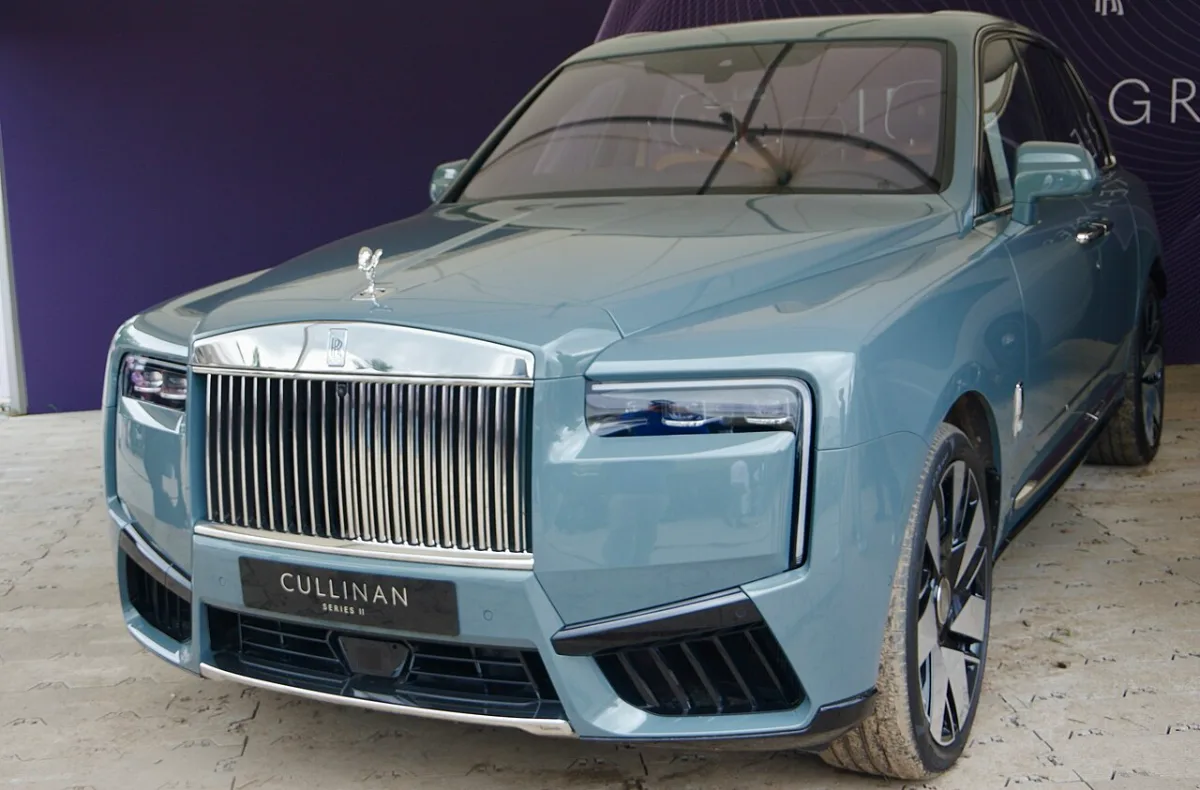
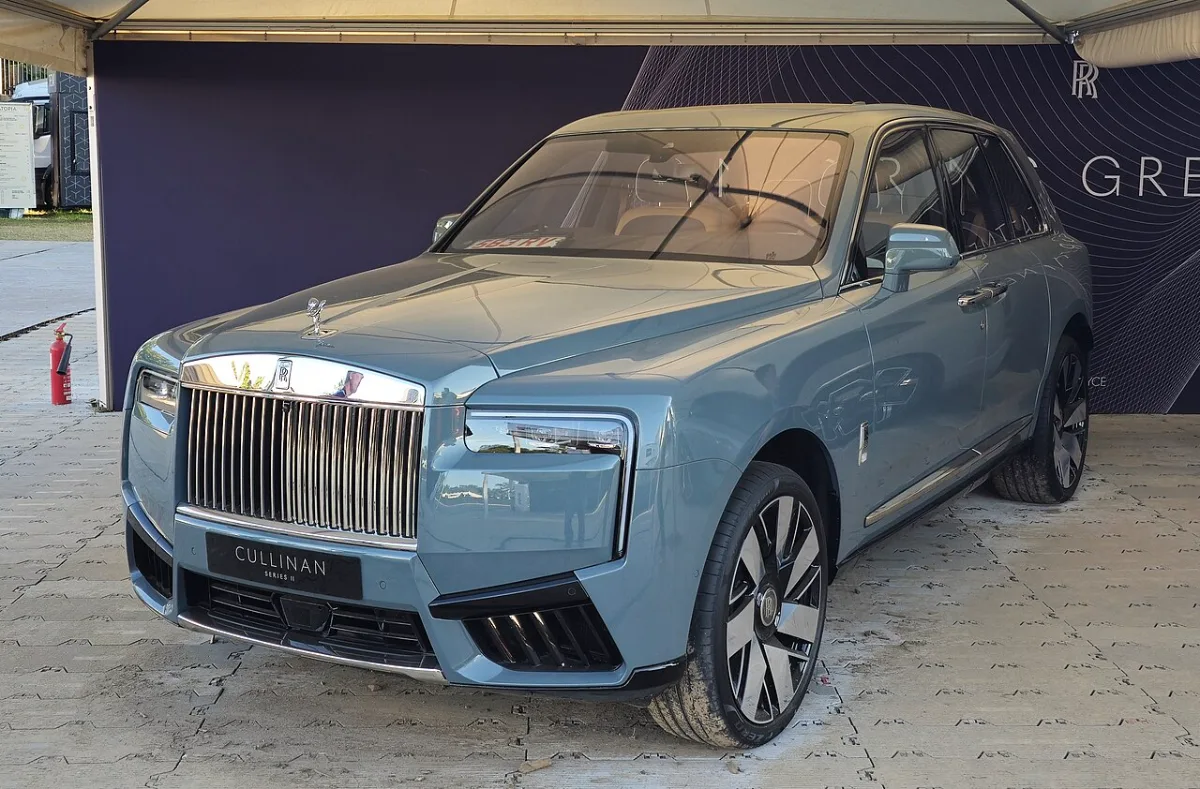
사이클 7: VR2 와 컬리넌 사진을 다음 후보로, 홈 카드 글 세 덩이 간격
- VR2: 헤드셋과 컨트롤러가 다 보이는 후보. 컬리넌: 배경 잔여 없는 후보. 둘 다 스튜디오 재변환
- 홈 카드 글: 이름과 가격 / 대표 상품 셋 / 확률 요약 사이 10px, 덩이 안은 2px

diff --git a/web/app/ui.css b/web/app/ui.css
@@ -135,7 +135,8 @@ input[type="number"]::-webkit-outer-spin-button, input[type="number"]::-webkit-i
 .v-boxcard-photo { position: relative; display: block; aspect-ratio: 1; background: var(--v-photo); }
 .v-boxcard-photo img { position: absolute; inset: 0; width: 100%; height: 100%; object-fit: cover; }
 .v-boxcard-body { display: flex; min-width: 0; flex-direction: column; justify-content: center; gap: 2px; padding: 12px 16px; }
-.v-boxcard-meta { display: flex; flex-wrap: wrap; column-gap: 12px; color: var(--v-mute); font-size: var(--v-fs-small); }
+.v-boxcard-meta { display: flex; flex-wrap: wrap; column-gap: 12px; row-gap: 2px; color: var(--v-mute); font-size: var(--v-fs-small); }
+.v-boxcard-meta + .v-boxcard-meta { margin-top: 2px; }
 /* 실물 사진 셋이 있는 카드: 사진 세 장이 위에 가로로, 글은 아래 */
 .v-boxcard--photos { display: block; }
 .v-boxcard-photos { display: grid; grid-template-columns: repeat(3, minmax(0, 1fr)); gap: 2px; }
@@ -145,7 +146,7 @@ input[type="number"]::-webkit-outer-spin-button, input[type="number"]::-webkit-i
 .v-boxcard-photos[data-n="2"] { grid-template-columns: repeat(2, minmax(0, 1fr)); }
 @media (min-width: 768px) { .v-boxcard-photos .v-boxcard-photo { aspect-ratio: 4 / 3; } }
 /* 대표 실물 셋: 한 줄에 하나, 길면 줄임표 */
-.v-boxcard-leads { display: flex; flex-direction: column; gap: 1px; margin: 4px 0 6px; color: var(--v-text); font-size: var(--v-fs-small); line-height: 1.4; }
+.v-boxcard-leads { display: flex; flex-direction: column; gap: 1px; margin: 10px 0; color: var(--v-text); font-size: var(--v-fs-small); line-height: 1.4; }
 .v-boxcard-leads > span { overflow: hidden; white-space: nowrap; text-overflow: ellipsis; }
 @media (min-width: 640px) {
   .v-boxgrid { grid-template-columns: repeat(2, minmax(0, 1fr)); gap: 16px; }

diff --git a/web/public/assets/photography/ATTRIBUTION-commons.md b/web/public/assets/photography/ATTRIBUTION-commons.md
@@ -42,127 +42,8 @@ More of my work can be found in my personal gallery or at my Peertube channel.
 
 
 A prepared attribution especially for use in Social Media and Print (newspapers, flyers, books, murals, mousepads, mugs, posters, t-shirts) can be copied here | CC BY-SA 4.0 |
-| commons-ap-vision-pro.webp | ap-vision-pro | https://commons.wikimedia.org/wiki/File:AR-_Apple_Vision_Pro_(2023).png | Steve Zhang | CC BY-SA 4.0 |
-| commons-ap-mba-15.webp | ap-mba-15 | https://commons.wikimedia.org/wiki/File:MacBook_Air_(15-inch,_M4,_Silver).jpg | AzureSaturn | CC0 |
-| commons-da-iphone16.webp | da-iphone16 | https://commons.wikimedia.org/wiki/File:Back_view_of_iPhone_16_Pro_Max_Natural_Titanium.jpg | メイド理世 | CC BY-SA 4.0 |
-| commons-ap-mba-13.webp | ap-mba-13 | https://commons.wikimedia.org/wiki/File:MacBook_Air_(13-inch,_M4,_Silver).jpg | AzureSaturn | CC0 |
-| commons-ap-watch-ultra-2.webp | ap-watch-ultra-2 | https://commons.wikimedia.org/wiki/File:Apple_Watch_Ultra_-_3.jpg | KKPCW（Kyu3） | CC BY-SA 4.0 |
-| commons-ap-mac-mini.webp | ap-mac-mini | https://commons.wikimedia.org/wiki/File:Mac_mini_2024_(cropped).jpg | Seasider53 | CC BY 4.0 |
-| commons-ap-ipad-mini.webp | ap-ipad-mini | https://commons.wikimedia.org/wiki/File:IPad_mini_(A17_Pro)_backside.jpg | 茅野ふたば | CC BY-SA 4.0 |
-| commons-ap-magic-keyboard-ipad.webp | ap-magic-keyboard-ipad | https://commons.wikimedia.org/wiki/File:Apple_Keyboards_2nd_3rd_Gen_right.png | Filterkaffee | CC BY-SA 4.0 |
-| commons-ap-homepod.webp | ap-homepod | https://commons.wikimedia.org/wiki/File:HomePod_2_2018-02-23.jpg | FASTILY | CC BY-SA 4.0 |
-| commons-da-watchse.webp | da-watchse | https://commons.wikimedia.org/wiki/File:Apple_Headquarters_in_Cupertino.jpg | Joe Ravi (Shutterstock iStock Dreamstime) | CC BY-SA 3.0 |
-| commons-ap-airpods-pro-2.webp | ap-airpods-pro-2 | https://commons.wikimedia.org/wiki/File:AirPods_Pro_case.jpg | — aconcagua (talk) | CC BY-SA 4.0 |
-| commons-ap-beats-fit-pro.webp | ap-beats-fit-pro | https://commons.wikimedia.org/wiki/File:Beats_Fit_Pro_-_1.jpg | Kyu3a | CC BY-SA 4.0 |
-| commons-ap-airpods-4-anc.webp | ap-airpods-4-anc | https://commons.wikimedia.org/wiki/File:AirPods_4_ANC_and_case.jpg | SimplyPops | CC0 |
-| commons-ap-apple-tv.webp | ap-apple-tv | https://commons.wikimedia.org/wiki/File:Apple_TV_4K_4gen_64gb.jpg | Davidbspalding | CC BY-SA 4.0 |
-| commons-ap-magic-keyboard.webp | ap-magic-keyboard | https://commons.wikimedia.org/wiki/File:Apple_Magic_Keyboard_with_Numeric_Keypad_Traditional_Chinese_(Zhuyin_%26_Cangjie).jpg | Shujenchang | CC BY-SA 4.0 |
-| commons-ap-apple-pencil-pro.webp | ap-apple-pencil-pro | https://commons.wikimedia.org/wiki/File:IPad_Pro_and_Apple_Pencil_(boxed).jpg | Brett Jordan | CC BY 2.0 |
-| commons-ap-magic-mouse.webp | ap-magic-mouse | https://commons.wikimedia.org/wiki/File:Magic_Mouse_vs_Mighty_Mouse.jpg | Julian Berry | CC BY-SA 2.0 |
-| commons-ap-homepod-mini.webp | ap-homepod-mini | https://commons.wikimedia.org/wiki/File:HomePod_mini.jpeg | — aconcagua (talk) | CC BY-SA 4.0 |
-| commons-ap-beats-solo-buds.webp | ap-beats-solo-buds | https://commons.wikimedia.org/wiki/File:Beats_Solo_Buds_Red_model_-_1.jpg | Kyu3a | CC BY-SA 4.0 |
-| commons-ap-watch-band.webp | ap-watch-band | https://commons.wikimedia.org/wiki/File:Apple_Watch_Sport_-_38mm_Space_Gray_(3768).jpg | Gregory Varnum | CC BY-SA 4.0 |
-| commons-car-rr-spectre.webp | car-rr-spectre | https://commons.wikimedia.org/wiki/File:Rolls-Royce_Spectre_IMG01.jpg | Maxhdtenda | CC BY-SA 4.0 |
-| commons-car-rr-cullinan.webp | car-rr-cullinan | https://commons.wikimedia.org/wiki/File:Rolls_Royce_Cullinan_Series_II_(53878104614).jpg | David Merrett from Daventry, England | CC BY 2.0 |
-| commons-car-rr-ghost.webp | car-rr-ghost | https://commons.wikimedia.org/wiki/File:Rolls_Royce_Ghost_Series_II_,_GIMS_2014_(Ank_Kumar)_01.jpg | Ank Kumar | CC BY-SA 4.0 |
-| commons-car-bentley-gt.webp | car-bentley-gt | https://commons.wikimedia.org/wiki/File:Bentley_Continental_GT_Speed.JPG | Hatsukari715 | Public domain |
-| commons-car-bentley-spur.webp | car-bentley-spur | https://commons.wikimedia.org/wiki/File:Bentley_Continental_Flying_Spur_Speed_%E2%80%93_Frontansicht_(2),_5._April_2012,_D%C3%BCsseldorf.jpg | M 93 | CC BY-SA 3.0 de |
-| commons-car-bentley-bentayga.webp | car-bentley-bentayga | https://commons.wikimedia.org/wiki/File:2022_Bentley_Bentayga_EWB_Azure.jpg | MrWalkr | CC BY-SA 4.0 |
-| commons-car-maybach-s680.webp | car-maybach-s680 | https://commons.wikimedia.org/wiki/File:Czeladz_Mercedes_Maybach_S680_2.jpg | Andrzej Otrębski | CC BY-SA 4.0 |
-| commons-car-rangerover-sv.webp | car-rangerover-sv | https://commons.wikimedia.org/wiki/File:Geneva_International_Motor_Show_2018,_Le_Grand-Saconnex_(1X7A1205).jpg | Matti Blume | CC BY-SA 4.0 |
-| commons-car-g63.webp | car-g63 | https://commons.wikimedia.org/wiki/File:Mercedes_Benz_G63_AMG_Long_front.JPG | Tokumeigakarinoaoshima | CC0 |
-| commons-car-cayenne.webp | car-cayenne | https://commons.wikimedia.org/wiki/File:Porsche_Cayenne_Coup%C3%A9_Turbo_S_E-Hybrid_at_IAA_2019_IMG_0256.jpg | Alexander Migl | CC BY-SA 4.0 |
-| commons-car-audi-etron-gt.webp | car-audi-etron-gt | https://commons.wikimedia.org/wiki/File:Audi_RS_e-tron_GT_quattro_(rear_view).jpg | Nimda01 | CC BY-SA 4.0 |
-| commons-car-bmw-i7.webp | car-bmw-i7 | https://commons.wikimedia.org/wiki/File:BMW_i7_xDrive60_1X7A6834.jpg | Alexander-93 | CC BY-SA 4.0 |
-| commons-car-lexus-lx.webp | car-lexus-lx | https://commons.wikimedia.org/wiki/File:Lexus_LX_600_F_Sport_2022_(1).jpg | Ethan Llamas | CC BY-SA 4.0 |
-| commons-car-lucid-air.webp | car-lucid-air | https://commons.wikimedia.org/wiki/File:Lucid_Air_Grand_Touring_-_front.jpg | Ganbaruby | CC BY-SA 4.0 |
-| commons-car-tesla-x.webp | car-tesla-x | https://commons.wikimedia.org/wiki/File:Tesla_Model_X_100D_1X7A6736.jpg | Alexander Migl | CC BY-SA 4.0 |
-| commons-car-tesla-s.webp | car-tesla-s | https://commons.wikimedia.org/wiki/File:20180630_Tesla_Model_S_70D_2015_midnight_blue_left_front.jpg | Granada | CC BY-SA 4.0 |
-| commons-car-bmw-x7.webp | car-bmw-x7 | https://commons.wikimedia.org/wiki/File:BMW_Concept_X7_iPerformance,_IAA_2017,_Frankfurt_(1Y7A3280).jpg | Matti Blume | CC BY-SA 4.0 |
-| commons-car-macan-ev.webp | car-macan-ev | https://commons.wikimedia.org/wiki/File:Porsche_Macan_(XAB)_IMG_2421.jpg | Alexander-93 | CC BY-SA 4.0 |
-| commons-car-cybertruck.webp | car-cybertruck | https://commons.wikimedia.org/wiki/File:2024_Tesla_Cybertruck,_Moab_02.jpg | A1C6 | CC0 |
-| commons-car-genesis-gv80.webp | car-genesis-gv80 | https://commons.wikimedia.org/wiki/File:Genesis_GV80_Coupe_002.jpg | JustAnotherCarDesigner | CC0 |
-| commons-car-tesla-y.webp | car-tesla-y | https://commons.wikimedia.org/wiki/File:2022_Tesla_Model_Y_Long_Range_AWD.jpg | Calreyn88 | CC BY-SA 4.0 |
-| commons-car-ducati-v4.webp | car-ducati-v4 | https://commons.wikimedia.org/wiki/File:Ducati_Panigale_V4_-_Tuning_World_Bodensee_2018,_Friedrichshafen_(OW1A0484).jpg | Matti Blume | CC BY-SA 4.0 |
-| commons-car-goldwing.webp | car-goldwing | https://commons.wikimedia.org/wiki/File:Honda_Gold_Wing_Trike_-_Flickr_-_mick_-_Lumix.jpg | Mick from Northamptonshire, England | CC BY 2.0 |
-| commons-car-harley-rg.webp | car-harley-rg | https://commons.wikimedia.org/wiki/File:2019_Harley-Davidson_CVO_Road_Glide_in_Red_Pepper_%26_Magnetic_Grey_With_Black_Hole.jpg | User:Lightburst | CC BY-SA 4.0 |
-| commons-car-zero-srf.webp | car-zero-srf | https://commons.wikimedia.org/wiki/File:Seulberger_Mark,_Dreim%C3%A4rker_GI_OE_42,_HH_SR_P_46._HH_F,_Petterweiler_Seite.jpg | Karsten Ratzke | CC0 |
-| commons-car-bmw-gs.webp | car-bmw-gs | https://commons.wikimedia.org/wiki/File:BMW_R1300_GS_Option_719_Tramuntana.jpg | Corvettec6r | CC BY 4.0 |
-| commons-car-sworks.webp | car-sworks | https://commons.wikimedia.org/wiki/File:2026_Fleche_Wallonne_bike_FDJ_Demi_Vollering_1.jpg | Hoebele | CC BY-SA 4.0 |
-| commons-car-vespa-gts.webp | car-vespa-gts | https://commons.wikimedia.org/wiki/File:Vespa_GTS_300_Super_2.jpg | Ottili from www.vespaforum.de | CC0 |
-| commons-car-brompton-t.webp | car-brompton-t | https://commons.wikimedia.org/wiki/File:The_Hospital_for_Consumption,_Brompton_Road,_Fulham;_viewed_Wellcome_L0050925.jpg | unknown | CC BY 4.0 |
-| commons-car-vanmoof.webp | car-vanmoof | https://commons.wikimedia.org/wiki/File:VanMoof_S,_S2,_S3_and_S5.jpg | Sanderadio | CC BY-SA 4.0 |
-| commons-car-michelin.webp | car-michelin | https://commons.wikimedia.org/wiki/File:Ford_Focus_RS-4_(30428698211).jpg | bez_uk | CC BY-SA 2.0 |
-| commons-car-garmin-edge.webp | car-garmin-edge | https://commons.wikimedia.org/wiki/File:Garmin_Edge_1050_box_isometric_view.jpg | Hugo LUC | CC BY-SA 4.0 |
-| commons-car-ev-cable.webp | car-ev-cable | https://commons.wikimedia.org/wiki/File:EV_Charging_station,_Mothitang.jpg | Christopher J. Fynn | CC BY-SA 4.0 |
-| commons-car-weathertech.webp | car-weathertech | https://commons.wikimedia.org/wiki/File:WeatherTech_Digital_Fit_Floor_Mat.jpg | Ryan Gsell | CC BY 2.0 |
-| commons-car-inflator.webp | car-inflator | https://commons.wikimedia.org/wiki/File:%22Spare_Tire%22-Pump_-_2012_Buick_Regal_GS_(6914581279).jpg | Michael Sheehan | CC BY 2.0 |
-| commons-car-cover.webp | car-cover | https://commons.wikimedia.org/wiki/File:Suzuki_Swift_JWRC_%2705_005.JPG | Tennen-Gas | CC BY-SA 3.0 |
-| commons-wt-daytona.webp | wt-daytona | https://commons.wikimedia.org/wiki/File:Black_and_diamonds_(26404429138).jpg | Thomas Quine | CC BY 2.0 |
-| commons-wt-gmt-master.webp | wt-gmt-master | https://commons.wikimedia.org/wiki/File:Rolex_GMT_Master_II_(4657617812).jpg | Håkan Dahlström from Malmö, Sweden | CC BY 2.0 |
-| commons-wt-submariner-date.webp | wt-submariner-date | https://commons.wikimedia.org/wiki/File:Rolex_Submariner_Professional.JPG | Dr.K. | CC BY-SA 3.0 |
-| commons-wt-explorer.webp | wt-explorer | https://commons.wikimedia.org/wiki/File:Rolex_Oyster_Perpetual_Explorer_Ref._114270_Cal._3130.png | Max3351 | CC BY-SA 4.0 |
-| commons-wt-speedmaster.webp | wt-speedmaster | https://commons.wikimedia.org/wiki/File:Classic_Speedy_(24067321725).jpg | Daniel Zimmermann from Bayern, Deutschland (Germany) | CC BY 2.0 |
-| commons-wt-cartier-santos.webp | wt-cartier-santos | https://commons.wikimedia.org/wiki/File:Cartier_Santos_100_medium.jpg | EMore98 | CC BY-SA 4.0 |
-| commons-wt-aqua-terra.webp | wt-aqua-terra | https://commons.wikimedia.org/wiki/File:Omega_Seamaster_Aqua_Terra_realizzato_per_commemorare_le_olimpiadi_di_Tokyo_2020.jpg | Clyde94 | CC BY-SA 4.0 |
-| commons-wt-tag-carrera.webp | wt-tag-carrera | https://commons.wikimedia.org/wiki/File:Tag_CV2010_Carrera.JPG | Pinback66 | CC BY-SA 3.0 |
-| commons-wt-seamaster-300.webp | wt-seamaster-300 | https://commons.wikimedia.org/wiki/File:Omega-Seamaster-p1020460.jpg | Rama | CC BY-SA 2.0 fr |
-| commons-wt-tudor-bb58.webp | wt-tudor-bb58 | https://commons.wikimedia.org/wiki/File:Tudor_Black_Bay_58_ref._M79018V,_primo_modello_di_casa_Tudor_interamente_in_oro.jpg | EMore98 | CC BY-SA 4.0 |
-| commons-wt-longines-spirit.webp | wt-longines-spirit | https://commons.wikimedia.org/wiki/File:Longines_Spirit_Zulu_Time.jpg | Clyde94 | CC BY-SA 4.0 |
-| commons-wt-cartier-tank.webp | wt-cartier-tank | https://commons.wikimedia.org/wiki/File:Cartier_Tank.jpg | Guy Sie | CC BY-SA 2.0 |
-| commons-wt-casio-mrg.webp | wt-casio-mrg | https://commons.wikimedia.org/wiki/File:G-Shock_2858.JPG | MrBurns | CC BY-SA 3.0 |
-| commons-wt-oris-aquis.webp | wt-oris-aquis | https://commons.wikimedia.org/wiki/File:Oris_Aquis_Depth_Gauge.jpeg | Rechteinhaber: Oris
 
 Fotograf: Olaf Köster | CC BY-SA 3.0 de |
-| commons-wt-nomos-tangente.webp | wt-nomos-tangente | https://commons.wikimedia.org/wiki/File:Nomos_Tangente_neomatik.jpg | GodeNehler | CC BY-SA 4.0 |
-| commons-wt-apple-ultra-2.webp | wt-apple-ultra-2 | https://commons.wikimedia.org/wiki/File:Apple_Watch_Ultra_-_3.jpg | KKPCW（Kyu3） | CC BY-SA 4.0 |
-| commons-wt-casio-frogman.webp | wt-casio-frogman | https://commons.wikimedia.org/wiki/File:Sarracenia_%27Frogman%27_x_leucophylla_%27Titan%27_(7532372290).jpg | Aaron Carlson from Menomonie, WI, USA | CC BY-SA 2.0 |
-| commons-wt-citizen-promaster.webp | wt-citizen-promaster | https://commons.wikimedia.org/wiki/File:Citizen_Promaster_Eco-Drive_AP0440-14F_Diver%27s_200_m_on_a_Citizen_bracelet.JPG | Francis Flinch | Public domain |
-| commons-wt-casio-oceanus.webp | wt-casio-oceanus | https://commons.wikimedia.org/wiki/File:Casio_OCEANUS_OCW-S1350PC-1AJR_01.JPG | Kansai explorer | CC BY-SA 3.0 |
-| commons-wt-samsung-watch-8.webp | wt-samsung-watch-8 | https://commons.wikimedia.org/wiki/File:SAMSUNG_Galaxy_Watch_(8).jpg | Dinkun Chen | CC BY-SA 4.0 |
-| commons-wt-garmin-forerunner.webp | wt-garmin-forerunner | https://commons.wikimedia.org/wiki/File:Forerunner_265.jpg | 3r1ccc | CC0 |
-| commons-wt-seiko-5.webp | wt-seiko-5 | https://commons.wikimedia.org/wiki/File:Seiko_5_SNKA23_watch.JPG | Ash Crow | CC BY-SA 3.0 |
-| commons-wt-watch-box-12.webp | wt-watch-box-12 | https://commons.wikimedia.org/wiki/File:Watch_(AM_1980.83-3).jpg | Mathey; George Lumsden | CC BY 4.0 |
-| commons-wt-casio-edifice.webp | wt-casio-edifice | https://commons.wikimedia.org/wiki/File:Casio_Edifice_WR100M,_1811051918,_ako.jpg | Ansgar Koreng | CC BY-SA 4.0 |
-| commons-wt-leather-strap.webp | wt-leather-strap | https://commons.wikimedia.org/wiki/File:Pieter_Brueghel_the_Elder_-_The_Dutch_Proverbs_-_Google_Art_Project.jpg | Pieter Brueghel the Elder | Public domain |
-| commons-wt-timex-expedition.webp | wt-timex-expedition | https://commons.wikimedia.org/wiki/File:Mikhail_Tyurin_Exp14_1.jpg | NASA | Public domain |
-| commons-wt-strap-tool.webp | wt-strap-tool | https://commons.wikimedia.org/wiki/File:Pack_Gong_(3144438149).jpg | Jason Hollinger | CC BY 2.0 |
-| commons-wt-watch-roll.webp | wt-watch-roll | https://commons.wikimedia.org/wiki/File:The_New_York_Lottery_Policy_Game_in_the_New_York_Herald_of_New_York_City,_New_York_on_November_23,_1869.png | AnonymousUnknown author | Public domain |
-| commons-wt-casio-f91w.webp | wt-casio-f91w | https://commons.wikimedia.org/wiki/File:Casio_F-91W_5051.jpg | Ashley Pomeroy | CC BY-SA 3.0 |
-| commons-bg-constance-18.webp | bg-constance-18 | https://commons.wikimedia.org/wiki/File:Hermes%E3%80%90Constance%E9%8C%A2%E5%8C%85%E6%89%8B%E5%8C%85-%E7%8E%AB%E7%91%B0-%E3%80%91_%E5%8E%9F%E5%BB%A0%E9%80%B2%E5%8F%A3%E9%A0%AD%E5%B1%A4%E7%89%9B%E7%9A%AE%E8%8D%94%E7%B4%8Btogo%E7%9A%AE_%E5%A4%9A%E5%8A%9F%E8%83%BD%E5%A4%A7%E5%AE%B9%E9%87%8F_%E7%9A%AE%E8%B3%AA%E7%B4%B0%E8%86%A9%E8%88%92%E9%81%A9_%E9%A1%8F%E8%89%B2%E9%BD%8A%E5%85%A8_%E6%98%A5%E5%A4%8F%E5%BF%85%E5%82%99%E6%AC%BE%E6%89%8B%E5%8C%85%E9%8C%A2%E5%8C%85_%E9%AB%98%E7%AB%AF%E5%A4%A7%E6%B0%A3%E4%B8%8A%E6%AA%94%E6%AC%A1_-%E8%AA%BF%E7%9A%AE-%E7%8F%BE%E8%B2%A8_%E5%B0%BA%E5%AF%B822cm*12cm-%E5%92%96%E5%95%A1-_(38839758642).jpg | Jazz 名品匯 from 台北 | CC BY-SA 2.0 |
-| commons-bg-dior-lady.webp | bg-dior-lady | https://commons.wikimedia.org/wiki/File:Lady_with_a_Squirrel_by_Hans_Holbein_the_Younger_in_the_National_Gallery.jpg | Hans Holbein the Younger | Public domain |
-| commons-bg-dior-saddle.webp | bg-dior-saddle | https://commons.wikimedia.org/wiki/File:York_Minster_Window_n.24_(42798488611).jpg | Jules &amp; Jenny from Lincoln, UK | CC BY 2.0 |
-| commons-bg-dior-book-tote.webp | bg-dior-book-tote | https://commons.wikimedia.org/wiki/File:Jahrhundertausstellung_1906_KatNr._0344a.jpg | Wilhelm von Diez | Public domain |
-| commons-bg-rimowa-cabin.webp | bg-rimowa-cabin | https://commons.wikimedia.org/wiki/File:RIMOWA_x_Supreme_Cabin_Red_45L.jpg | Paulgruber2 | CC BY-SA 4.0 |
-| commons-bg-mk-jet-set.webp | bg-mk-jet-set | https://commons.wikimedia.org/wiki/File:Michael_Kors_Jet_Set_Item_TZ_Tote_Shopper_30T01TTT2L_Kalbsleder_navy_blau_(1)_(16291771510).jpg | SPERA.de Designerschuhe, Taschen und Accessoires from Deutschland | CC BY 2.0 |
-| commons-bg-bag-charm.webp | bg-bag-charm | https://commons.wikimedia.org/wiki/File:A_broker_feigning_deafness_to_avoid_paying_the_doctor_who_cu_Wellcome_V0010942.jpg | unknown | CC BY 4.0 |
-| commons-bg-dust-bag-set.webp | bg-dust-bag-set | https://commons.wikimedia.org/wiki/File:Dust_bag_(Staubsack)_-_several_constructions.png | Ra'ike (see also: de:Benutzer:Ra'ike) | Public domain |
-| commons-gd-bar-1kg.webp | gd-bar-1kg | https://commons.wikimedia.org/wiki/File:Bronze_Age_bracelet_(FindID_538672).jpg | Salisbury and South Wiltshire Museum, Richard Henry, 2013-04-22 17:04:44 | CC BY-SA 2.0 |
-| commons-gd-bar-250g.webp | gd-bar-250g | https://commons.wikimedia.org/wiki/File:250g_Goldbarren.JPG | Apollo2005 | CC BY-SA 3.0 |
-| commons-gd-bar-100g.webp | gd-bar-100g | https://commons.wikimedia.org/wiki/File:Silverdale_Hoard_items_with_lead_container_(FindID_462949).jpg | The British Museum, Ian Richardson, 2012-06-15 12:22:42 | CC BY-SA 2.0 |
-| commons-gd-bar-50g.webp | gd-bar-50g | https://commons.wikimedia.org/wiki/File:Anglo-Saxon_objects_(FindID_531986).jpg | The British Museum, Emma Traherne, 2013-03-13 15:58:27 | CC BY-SA 4.0 |
-| commons-gd-silver-100oz.webp | gd-silver-100oz | https://commons.wikimedia.org/wiki/File:Slagexflintl%C3%A5slodb%C3%B6ssa_-_D_Bars_-_Firearms_III_-_Livrustkammaren_-_87470.tif | Erik Lernestål | Public domain |
-| commons-gd-bar-1oz.webp | gd-bar-1oz | https://commons.wikimedia.org/wiki/File:Gold_bar_400_oz.JPG | Realterm | CC BY-SA 3.0 |
-| commons-gd-bar-20g.webp | gd-bar-20g | https://commons.wikimedia.org/wiki/File:HOARD_(FindID_630959).jpg | The Portable Antiquities Scheme, Stuart Noon, 2015-04-13 10:18:59 | CC BY 2.0 |
-| commons-gd-bar-10g.webp | gd-bar-10g | https://commons.wikimedia.org/wiki/File:Early_Medieval_finger_ring_(FindID_593383).jpg | The Portable Antiquities Scheme, Kevin Leahy, 2014-01-03 13:57:53 | CC BY-SA 4.0 |
-| commons-gd-gold-coin-quarter.webp | gd-gold-coin-quarter | https://commons.wikimedia.org/wiki/File:1_oz_Gold_Sika_(1_Troy_Ounce_Gold_Sika)_Gold_Coins.png | Zopssin | Public domain |
-| commons-gd-bar-5g.webp | gd-bar-5g | https://commons.wikimedia.org/wiki/File:Early_Medieval_,_Hoard_(FindID_504460-384425).jpg | The British Museum, Lucy Ellis, 2013-09-12 13:52:02 | CC BY-SA 2.0 |
-| commons-gd-silver-10oz.webp | gd-silver-10oz | https://commons.wikimedia.org/wiki/File:Slagexflintl%C3%A5slodb%C3%B6ssa_-_D_Bars_-_Firearms_III_-_Livrustkammaren_-_87470.tif | Erik Lernestål | Public domain |
-| commons-gd-bar-2g.webp | gd-bar-2g | https://commons.wikimedia.org/wiki/File:Seagry_2007T510_(FindID_247006).jpg | The British Museum, Siorna McFarlane, 2010-10-05 15:12:43 | CC BY-SA 4.0 |
-| commons-gd-silver-coin-5.webp | gd-silver-coin-5 | https://commons.wikimedia.org/wiki/File:Obverse_2022_Somalia_1_oz_Silver_coin_Leopard.jpg | Bruxton | CC BY-SA 4.0 |
-| commons-gd-jewelry-box.webp | gd-jewelry-box | https://commons.wikimedia.org/wiki/File:Broadside-_E.H._Goulding_and_Co.,_pre-Christmas_lottery,_prizes_jewelry,_clocks,_leather_goods,_Alton,_Ill.,_1850-1900.jpg | Unknown authorUnknown author | Public domain |
-| commons-gd-bar-1g.webp | gd-bar-1g | https://commons.wikimedia.org/wiki/File:Goldas_1g_gold_bullion_in_assay_card.jpg | Kjmonkey | CC0 |
-| commons-gd-silver-chain.webp | gd-silver-chain | https://commons.wikimedia.org/wiki/File:Chain_pearl_necklace.jpg | Durova | CC BY-SA 3.0 |
-| commons-gd-silver-earrings.webp | gd-silver-earrings | https://commons.wikimedia.org/wiki/File:Elegant_silver_and_pewter_earrings.jpg | Heather | CC BY 2.0 |
-| commons-gd-silver-coin-1.webp | gd-silver-coin-1 | https://commons.wikimedia.org/wiki/File:Obverse_2022_Somalia_1_oz_Silver_coin_Leopard.jpg | Bruxton | CC BY-SA 4.0 |
-| commons-gd-scale.webp | gd-scale | https://commons.wikimedia.org/wiki/File:Skilled_workers_manufacturing_jewelry,_Providence,_R.I,_by_Keystone_View_Company.jpg | Keystone View Company -- Photographer | Public domain |
-| commons-gx-fold7-256.webp | gx-fold7-256 | https://commons.wikimedia.org/wiki/File:Samsung_Galaxy_Fold7_Cover_Screen.jpg | Megapro17 | CC0 |
-| commons-gx-buds4.webp | gx-buds4 | https://commons.wikimedia.org/wiki/File:SAMSUNG_Galaxy_S26_Ultra_%26_SAMSUNG_Galaxy_Buds4_Pro.jpg | Dinkun Chen | CC BY-SA 4.0 |
-| commons-gm-ryzen9950x3d.webp | gm-ryzen9950x3d | https://commons.wikimedia.org/wiki/File:AMD_RYZEN_9_9950X3D_-_DOVRESTI_COMPRARLO%C2%BF_(1920p_30fps_VP9_LQ-128kbit_AAC)-00.00.04.000.png | MoreThanTech | CC BY 3.0 |
-| commons-gm-blackwidow-v4.webp | gm-blackwidow-v4 | https://commons.wikimedia.org/wiki/File:Tokyo-Game-Show-2025_2035.jpg | RuinDig/Yuki Uchida | CC BY 4.0 |
-| commons-gm-g-pro-superlight2.webp | gm-g-pro-superlight2 | https://commons.wikimedia.org/wiki/File:Logitech_Pro_X_Superlight_2_sample_20231216.jpg | Solomon203 | CC BY-SA 4.0 |
-| commons-cs-rog-xbox-ally.webp | cs-rog-xbox-ally | https://commons.wikimedia.org/wiki/File:ROG_Xbox_Ally.jpeg | XBOX 360 ONE | Public domain |
-| commons-cs-psvr2.webp | cs-psvr2 | https://commons.wikimedia.org/wiki/File:PSVR2.png | This image is a work by Wikipedia and Wikimedia Commons user C.Suthorn. When reusing, credit me as described in the Licensing information below.  I would appreciate being notified (wikimail, talk page, email, Social Media) if you use my work outside Wikimedia.
 Do not copy this image illegally by ignoring the terms of the license below, as it is not in the public domain. If you would like special permission to use, license, or purchase the image please contact me to negotiate terms.
 
 More of my work can be found in my personal gallery or at my Peertube channel.
@@ -171,63 +52,13 @@ More of my work can be found in my personal gallery or at my Peertube channel.
 
 
 A prepared attribution especially for use in Social Media and Print (newspapers, flyers, books, murals, mousepads, mugs, posters, t-shirts) can be copied here | CC BY-SA 4.0 |
-| commons-cs-g923.webp | cs-g923 | https://commons.wikimedia.org/wiki/File:Logitech_G923_(PlayStation_variant)_complete_set.jpg | FreeMediaKid! | CC BY 4.0 |
-| commons-cs-dualsense-edge.webp | cs-dualsense-edge | https://commons.wikimedia.org/wiki/File:DualSense_Edge_Controller.jpg | Sonson2 | CC0 |
-| commons-cs-xbox-elite2.webp | cs-xbox-elite2 | https://commons.wikimedia.org/wiki/File:Xbox_One_Elite_Controller_(Model_1698)_-_underside.jpg | mliu92 | CC BY-SA 2.0 |
-| commons-cs-8bitdo-ultimate2.webp | cs-8bitdo-ultimate2 | https://commons.wikimedia.org/wiki/File:8BitDo_Ultimate_2C_gamepad_HS_DSC_2690.jpg | Hayden Schiff | CC BY 4.0 |
-| commons-au-xtreme4.webp | au-xtreme4 | https://commons.wikimedia.org/wiki/File:JBL_Xtreme_Bluetooth_speaker,_28_cm_long,_battery_10.000_mAh.jpg | Pittigrilli | CC BY-SA 4.0 |
-| commons-au-shure-mv7plus.webp | au-shure-mv7plus | https://commons.wikimedia.org/wiki/File:Shure_MV7_microphone.jpg | Panos Sakalakis | CC BY 2.0 |
-| commons-au-charge6.webp | au-charge6 | https://commons.wikimedia.org/wiki/File:JBL_Charge_taken_with_my_iPhone_6._(15127642289).jpg | Yanki01 | CC BY 2.0 |
-| commons-au-rode-ntusbplus.webp | au-rode-ntusbplus | https://commons.wikimedia.org/wiki/File:Rode_NT-USB.jpg | Nicolas Rück (WMDE) | CC BY-SA 3.0 |
-| commons-au-flip7.webp | au-flip7 | https://commons.wikimedia.org/wiki/File:JBL_Flip_4.jpg | Freekhou5 | CC BY-SA 4.0 |
-| commons-au-koss-portapro.webp | au-koss-portapro | https://commons.wikimedia.org/wiki/File:Porta_Pro_Koss_Headphones.jpg | Cooper55566 | CC0 |
-| commons-au-jbl-go4.webp | au-jbl-go4 | https://commons.wikimedia.org/wiki/File:Altavoz_JBL.jpg | Jdp84 | CC BY-SA 4.0 |
-| commons-mb-mac-studio-max.webp | mb-mac-studio-max | https://commons.wikimedia.org/wiki/File:Review_zu_Apple_Hardware_mit_Apple_M4-CPUs_(Geekerwan)_05.png | 极客湾Geekerwan | CC BY 3.0 |
-| commons-mb-herman-aeron.webp | mb-herman-aeron | https://commons.wikimedia.org/wiki/File:Aeron_Chair.jpg | Badudoy at English Wikipedia | CC BY-SA 3.0 |
-| commons-mb-mac-mini-pro.webp | mb-mac-mini-pro | https://commons.wikimedia.org/wiki/File:Mac_mini_2024.jpg | Seasider53 | CC BY 4.0 |
-| commons-mb-mac-mini.webp | mb-mac-mini | https://commons.wikimedia.org/wiki/File:Mac_mini_2024_(cropped).jpg | Seasider53 | CC BY 4.0 |
-| commons-mb-lacie-rugged-4tb.webp | mb-lacie-rugged-4tb | https://commons.wikimedia.org/wiki/File:LaCie_Rugged_Mini_SSD.jpg | TaurusEmerald | CC BY-SA 4.0 |
-| commons-mb-shure-mv7.webp | mb-shure-mv7 | https://commons.wikimedia.org/wiki/File:Shure_MV7_microphone.jpg | Panos Sakalakis | CC BY 2.0 |
-| commons-mb-airpods-pro-2.webp | mb-airpods-pro-2 | https://commons.wikimedia.org/wiki/File:AirPods_Pro_case.jpg | — aconcagua (talk) | CC BY-SA 4.0 |
-| commons-mb-magic-keyboard.webp | mb-magic-keyboard | https://commons.wikimedia.org/wiki/File:Apple_Magic_Keyboard_with_Numeric_Keypad_Traditional_Chinese_(Zhuyin_%26_Cangjie).jpg | Shujenchang | CC BY-SA 4.0 |
-| commons-mb-magic-trackpad.webp | mb-magic-trackpad | https://commons.wikimedia.org/wiki/File:AppleMagicTrackpad.jpg | Fabián Rodríguez | Public domain |
-| commons-mb-apple-pencil-pro.webp | mb-apple-pencil-pro | https://commons.wikimedia.org/wiki/File:IPad_Pro_and_Apple_Pencil_(boxed).jpg | Brett Jordan | CC BY 2.0 |
-| commons-mb-logitech-mx-master.webp | mb-logitech-mx-master | https://commons.wikimedia.org/wiki/File:2017_Mysz_komputerowa_Logitech_MX_Master.jpg | Jacek Halicki | CC BY-SA 4.0 |
-| commons-mb-magic-mouse.webp | mb-magic-mouse | https://commons.wikimedia.org/wiki/File:Magic_Mouse_vs_Mighty_Mouse.jpg | Julian Berry | CC BY-SA 2.0 |
-| commons-cm-leica-q3.webp | cm-leica-q3 | https://commons.wikimedia.org/wiki/File:Leica_Q3.jpg | Peachyeung316 | CC BY-SA 4.0 |
-| commons-cm-canon-r5ii.webp | cm-canon-r5ii | https://commons.wikimedia.org/wiki/File:Canon_EOS_R5_Mark_II_(front,_no_body_cap).jpg | D. Benjamin Miller | CC0 |
-| commons-cm-sony-a7rv.webp | cm-sony-a7rv | https://commons.wikimedia.org/wiki/File:Sony_Alpha_7R_IV_body_with_Canon_MP-E_65mm_F2.8_1-5x_macro_lens_(fully_extended).jpg | Franz van Duns | CC BY-SA 4.0 |
-| commons-cm-sony-70200gm2.webp | cm-sony-70200gm2 | https://commons.wikimedia.org/wiki/File:Sony_FE_70-200mm_F2.8_GM_OSS_II_-_by_Henry_S%C3%B6derlund_(51707233845).jpg | Henry Söderlund from Helsinki, Finland, Finland | CC BY 2.0 |
-| commons-cm-nikon-z2470ii.webp | cm-nikon-z2470ii | https://commons.wikimedia.org/wiki/File:Nikon_D7200_and_Sigma_18-35mm_f1.8_DC_HSM_Art.jpg | Wilfredor | CC0 |
-| commons-cm-nikon-z6iii.webp | cm-nikon-z6iii | https://commons.wikimedia.org/wiki/File:Nikon_Z6_III_with_50mm_1.2S_arranged_inside_a_case_with_various_lenses_and_accessories_undefined.jpg | Shixart1985 | CC BY 2.0 |
-| commons-cm-canon-rf2470.webp | cm-canon-rf2470 | https://commons.wikimedia.org/wiki/File:Canon_EOS_R5_with_Canon_RF_24-70mm_F2.8L_IS_USM_(50170662581).jpg | Henry Söderlund from Helsinki, Finland | CC BY 2.0 |
-| commons-cm-sony-2470gm2.webp | cm-sony-2470gm2 | https://commons.wikimedia.org/wiki/File:Sony_FE_24-70mm_F2.8_GM_II_20240211_HOF07361_RAW-Export_000107cens.png | PantheraLeo1359531 | CC BY 4.0 |
-| commons-cm-nikon-z180600.webp | cm-nikon-z180600 | https://commons.wikimedia.org/wiki/File:Nikon_Nikkor_Z_180-600mm_f5.6-6.3_VR_02.jpg | TTTNIS | CC0 |
-| commons-cm-fuji-x100vi.webp | cm-fuji-x100vi | https://commons.wikimedia.org/wiki/File:Fujifilm_X100VI_25_may_2024c.jpg | 昼落ち | CC0 |
-| commons-cm-sony-a6700.webp | cm-sony-a6700 | https://commons.wikimedia.org/wiki/File:Sony_Alpha_6700_(DSC_7823).jpg | Tsungam | CC BY-SA 4.0 |
-| commons-cm-sony-35gm.webp | cm-sony-35gm | https://commons.wikimedia.org/wiki/File:Sony_FE_35mm_F1.4_GM_-_by_Henry_S%C3%B6derlund_(51090047026).jpg | Henry Söderlund from Helsinki, Finland | CC BY 2.0 |
-| commons-cm-tamron-70180g2.webp | cm-tamron-70180g2 | https://commons.wikimedia.org/wiki/File:Tamron_70-180mm_F_2.8_Di_III_VC_VXD_G2_(model_A065),_Sony_E_by_Henry_S%C3%B6derlund.jpg | Henry Söderlund | CC BY 2.0 |
-| commons-cm-dji-mini4pro.webp | cm-dji-mini4pro | https://commons.wikimedia.org/wiki/File:2024_Dron_DJI_Mini_4_Pro_(01).jpg | Jacek Halicki | CC BY-SA 4.0 |
-| commons-cm-sony-50f18.webp | cm-sony-50f18 | https://commons.wikimedia.org/wiki/File:Sony_Zeiss_Sonnar_55mm_f1,8_lens_and_Cosina_Voigtlaender_50mm_f1,5_Nokton.jpg | Dllu | CC BY-SA 4.0 |
-| commons-cm-sandisk-128.webp | cm-sandisk-128 | https://commons.wikimedia.org/wiki/File:Sandisk_sdsdxp_512g_a46_512gb_extreme_pro_uhs_i_1082352.png | Rektal Trauma | CC BY-SA 4.0 |
-| commons-sc-lambo-revuelto.webp | sc-lambo-revuelto | https://commons.wikimedia.org/wiki/File:Lamborghini_Revuelto_Auto_Zuerich_2023_1X7A1101.jpg | Alexander-93 | CC BY-SA 4.0 |
-| commons-sc-ferrari-296.webp | sc-ferrari-296 | https://commons.wikimedia.org/wiki/File:Ferrari_296_GTB_1X7A6377.jpg | Alexander Migl | CC BY-SA 4.0 |
-| commons-sc-mclaren-750s.webp | sc-mclaren-750s | https://commons.wikimedia.org/wiki/File:McLaren_750S_Spider_IMG_2458.jpg | Alexander-93 | CC BY-SA 4.0 |
-| commons-sc-ferrari-roma.webp | sc-ferrari-roma | https://commons.wikimedia.org/wiki/File:Ferrari_Roma_Spider_Auto_Zuerich_2023_1X7A1455.jpg | Alexander-93 | CC BY-SA 4.0 |
-| commons-sc-lambo-urus.webp | sc-lambo-urus | https://commons.wikimedia.org/wiki/File:Lamborghini_Urus_SE_002.jpg | JustAnotherCarDesigner | CC0 |
-| commons-sc-aston-db12.webp | sc-aston-db12 | https://commons.wikimedia.org/wiki/File:Aston_Martin_DB12_1X7A1921.jpg | Alexander-93 | CC BY-SA 4.0 |
-| commons-sc-nissan-gtr.webp | sc-nissan-gtr | https://commons.wikimedia.org/wiki/File:Nissan_GT-R_Nismo_mondial_auto_2016_(1).jpg | Romain D C | CC BY-SA 4.0 |
-| commons-sc-aston-vantage.webp | sc-aston-vantage | https://commons.wikimedia.org/wiki/File:Aston_MArtin_Vantage_GTE,_GIMS_2018,_Le_Grand-Saconnex_(1X7A1590).jpg | Matti Blume | CC BY-SA 4.0 |
-| commons-sc-porsche-718-gt4.webp | sc-porsche-718-gt4 | https://commons.wikimedia.org/wiki/File:Manthey_Porsche_GT4_RS,_EMS_23,_Essen_(P1160647-RR).jpg | Matti Blume | CC BY-SA 4.0 |
-| commons-sc-audi-rs6.webp | sc-audi-rs6 | https://commons.wikimedia.org/wiki/File:Audi_RS6_Avant_C8_at_IAA_2019_IMG_0194.jpg | Alexander Migl | CC BY-SA 4.0 |
-| commons-sc-bmw-m4-cs.webp | sc-bmw-m4-cs | https://commons.wikimedia.org/wiki/File:2018_BMW_M4_CS_Black.jpg | MrWalkr | CC BY-SA 4.0 |
-| commons-sc-corvette-z06.webp | sc-corvette-z06 | https://commons.wikimedia.org/wiki/File:ChevroletCorvetteZ06.jpg | Jason Lawrence | CC BY 2.0 |
-| commons-sc-lotus-emira.webp | sc-lotus-emira | https://commons.wikimedia.org/wiki/File:Lotus_Emira.jpg | MrWalkr | CC BY-SA 4.0 |
-| commons-sc-alpine-a110.webp | sc-alpine-a110 | https://commons.wikimedia.org/wiki/File:Alpine_A110_S_Automesse_Ludwigsburg_2022_1X7A5946.jpg | Alexander Migl | CC BY-SA 4.0 |
-| commons-sc-tesla-s-plaid.webp | sc-tesla-s-plaid | https://commons.wikimedia.org/wiki/File:20180630_Tesla_Model_S_70D_2015_midnight_blue_left_front.jpg | Granada | CC BY-SA 4.0 |
-| commons-sc-corvette-stingray.webp | sc-corvette-stingray | https://commons.wikimedia.org/wiki/File:Chevrolet_Corvette_Stingray_Convertible_(C3)_6280351.jpg | Ermell | CC BY-SA 4.0 |
-| commons-sc-mustang-dark-horse.webp | sc-mustang-dark-horse | https://commons.wikimedia.org/wiki/File:2024_Ford_Mustang_Dark_Horse.jpg | UltraTech66 | CC BY-SA 4.0 |
-| commons-sc-bmw-m1000rr.webp | sc-bmw-m1000rr | https://commons.wikimedia.org/wiki/File:BMW_S1000RR_race.jpg | Franc from USA / CA | CC BY-SA 2.0 |
-| commons-sc-ducati-v4-s.webp | sc-ducati-v4-s | https://commons.wikimedia.org/wiki/File:Ducati_Panigale_V4_S_Corse.jpg | TaurusEmerald | CC BY-SA 4.0 |
-| commons-sc-yamaha-r1.webp | sc-yamaha-r1 | https://commons.wikimedia.org/wiki/File:YAMAHA_YZF-R1_2008_left_front.jpg | PekePON (talk) | CC BY-SA 3.0 |
-| commons-sc-driving-gloves.webp | sc-driving-gloves | https://commons.wikimedia.org/wiki/File:Peccary_Driving_Glove.jpg | -oo0(GoldTrader)0oo- | Public domain |
+| commons-car-rr-cullinan.webp | car-rr-cullinan | https://commons.wikimedia.org/wiki/File:2024_Rolls-Royce_Cullinan_(70701).jpg | Calreyn88 | CC BY-SA 4.0 |
+| commons-cs-psvr2.webp | cs-psvr2 | https://commons.wikimedia.org/wiki/File:PSVR2_(Non-Stereoscopic).png | This image is a work by Wikipedia and Wikimedia Commons user C.Suthorn. When reusing, credit me as described in the Licensing information below.  I would appreciate being notified (wikimail, talk page, email, Social Media) if you use my work outside Wikimedia.
+Do not copy this image illegally by ignoring the terms of the license below, as it is not in the public domain. If you would like special permission to use, license, or purchase the image please contact me to negotiate terms.
+
+More of my work can be found in my personal gallery or at my Peertube channel.
+
+
+
+
+A prepared attribution especially for use in Social Media and Print (newspapers, flyers, books, murals, mousepads, mugs, posters, t-shirts) can be copied here | CC BY-SA 4.0 |

diff --git a/qa/codex/scenario-prompt-3.md b/qa/codex/scenario-prompt-3.md
@@ -1,0 +1,19 @@
+AGENTS.md와 DESIGN.md를 먼저 읽어라. 그다음 JOURNEY.md 와 web/scripts/capture/states.mjs, web/scripts/capture/quick.mjs, web/scripts/capture/flow-review.mjs 를 읽어라.
+
+너는 독립 QA 엔지니어다. 개발 서버가 http://localhost:3002 에 떠 있다(한국어는 /ko). 실제 돈은 움직이지 않는다(브라우저 안의 시험 장부). 아래 시나리오를 Playwright(설치돼 있음, channel "chrome", headless)로 실제로 클릭해 끝까지 가 보고, 막히는 자리와 기대와 다른 동작을 찾아라.
+규칙: 앱 코드(web/app, web/components, web/lib, web/stores, web/messages)는 고치지 마라. 네가 쓰는 스크립트는 qa/codex/scenario.mjs 하나에만, 스크린샷은 qa/work/codex/ 에만 저장한다. 상태 프리셋은 states.mjs 의 installState/makeState 를 쓴다(guest, zero, insufficient, funded, inventory, pending, security). 모바일 390x844, deviceScaleFactor 2.
+
+시나리오
+A 처음 방문: /ko → 박스 카드 → 박스 화면 → 사진 띠 상품 누르기 → 상품 시트 → 닫기 → 구성품 행 누르기 → 후기 절까지 스크롤
+B 특정 상품: /ko 에서 "상품으로 찾기"에 "롤렉스" → 결과 행 → 그 박스 화면이 열리는가
+C 구매: funded 로 /ko/box/dollar-apple → 5개 칩 → 단추 문구에 "5개 열기, 5 USDT" → 열기 → 결과 화면 → 한 번 더 열기 또는 보관함에서 받기
+C2 비로그인 구매: guest 로 /ko/box/dollar-apple → 5개 칩 → "로그인하고 열기" → 로그인 시트 → 닫기 → 수량이 5개로 남아 있는가
+D 잔액 부족: insufficient(0.25 USDT) 로 /ko/box/dollar-apple → 단추가 "USDT 충전하기"인가, 막대 안에 부족액 한 줄이 있는가 → 누르면 충전 시트 → 닫기 → 선택이 남아 있는가
+E 개봉 이후: inventory 로 /ko/inventory → 상품 행 → 시트 → "배송 받기" → 배송 시트에 필드가 있는가 → 닫기 → "USDT로 받기" 링크 → 확인창 → 확인 → "받은 것" 탭에 들어가는가
+F 신뢰: inventory 로 /ko/inventory → 상품 행 → "개봉 결과 검증" → 검증 시트에 해시와 결과가 있는가. 그다음 /ko/box/dollar-apple 의 후기 절
+G 반복: funded 로 /ko → 최근 연 박스가 앞에 오는가(먼저 /ko/box/dollar-gaming 에서 1개 열고 /ko 로 돌아와 확인) → /ko/account → 보관 중 수가 맞는가
+
+시나리오마다 [단계 / 기대 / 실제 / 판정(통과, 실패, 막힘)] 표를 쓰고 실패마다 스크린샷 파일명을 적어라. 마지막에 "실제 사용자가 막히는 순간 셋"과 "브리프 13장의 10개 테스트" 5점 척도 평가(근거 한 줄씩). 긴 줄표와 가운뎃점 문자, 느낌표는 쓰지 마라.
+
+
+3차 실행이다. 2차 결과 qa/codex/scenario-review-2.md 를 먼저 읽고 같은 시나리오를 다시 실행해 변화를 항목마다 적어라. 추가로: /ko/account(funded)에서 "닉네임" 행 → 시트 → 새 이름 저장 → 행 반영, "비밀번호" 행 → 시트(입력칸 셋), "탈퇴" 행 → 시트 → 비밀번호 입력 → 확인창(실제 탈퇴는 누르지 마라, 취소). 자동차 박스 상품 시트의 "배송 가능 나라 보기" → 나라 이름 목록. /ko/verify 내 기록 시트의 "값을 직접 넣어 검증" → 시트가 닫히고 입력칸이 채워지는가. 스크린샷은 qa/work/codex3/ 에, 스크립트는 qa/codex/scenario3.mjs 에만.
